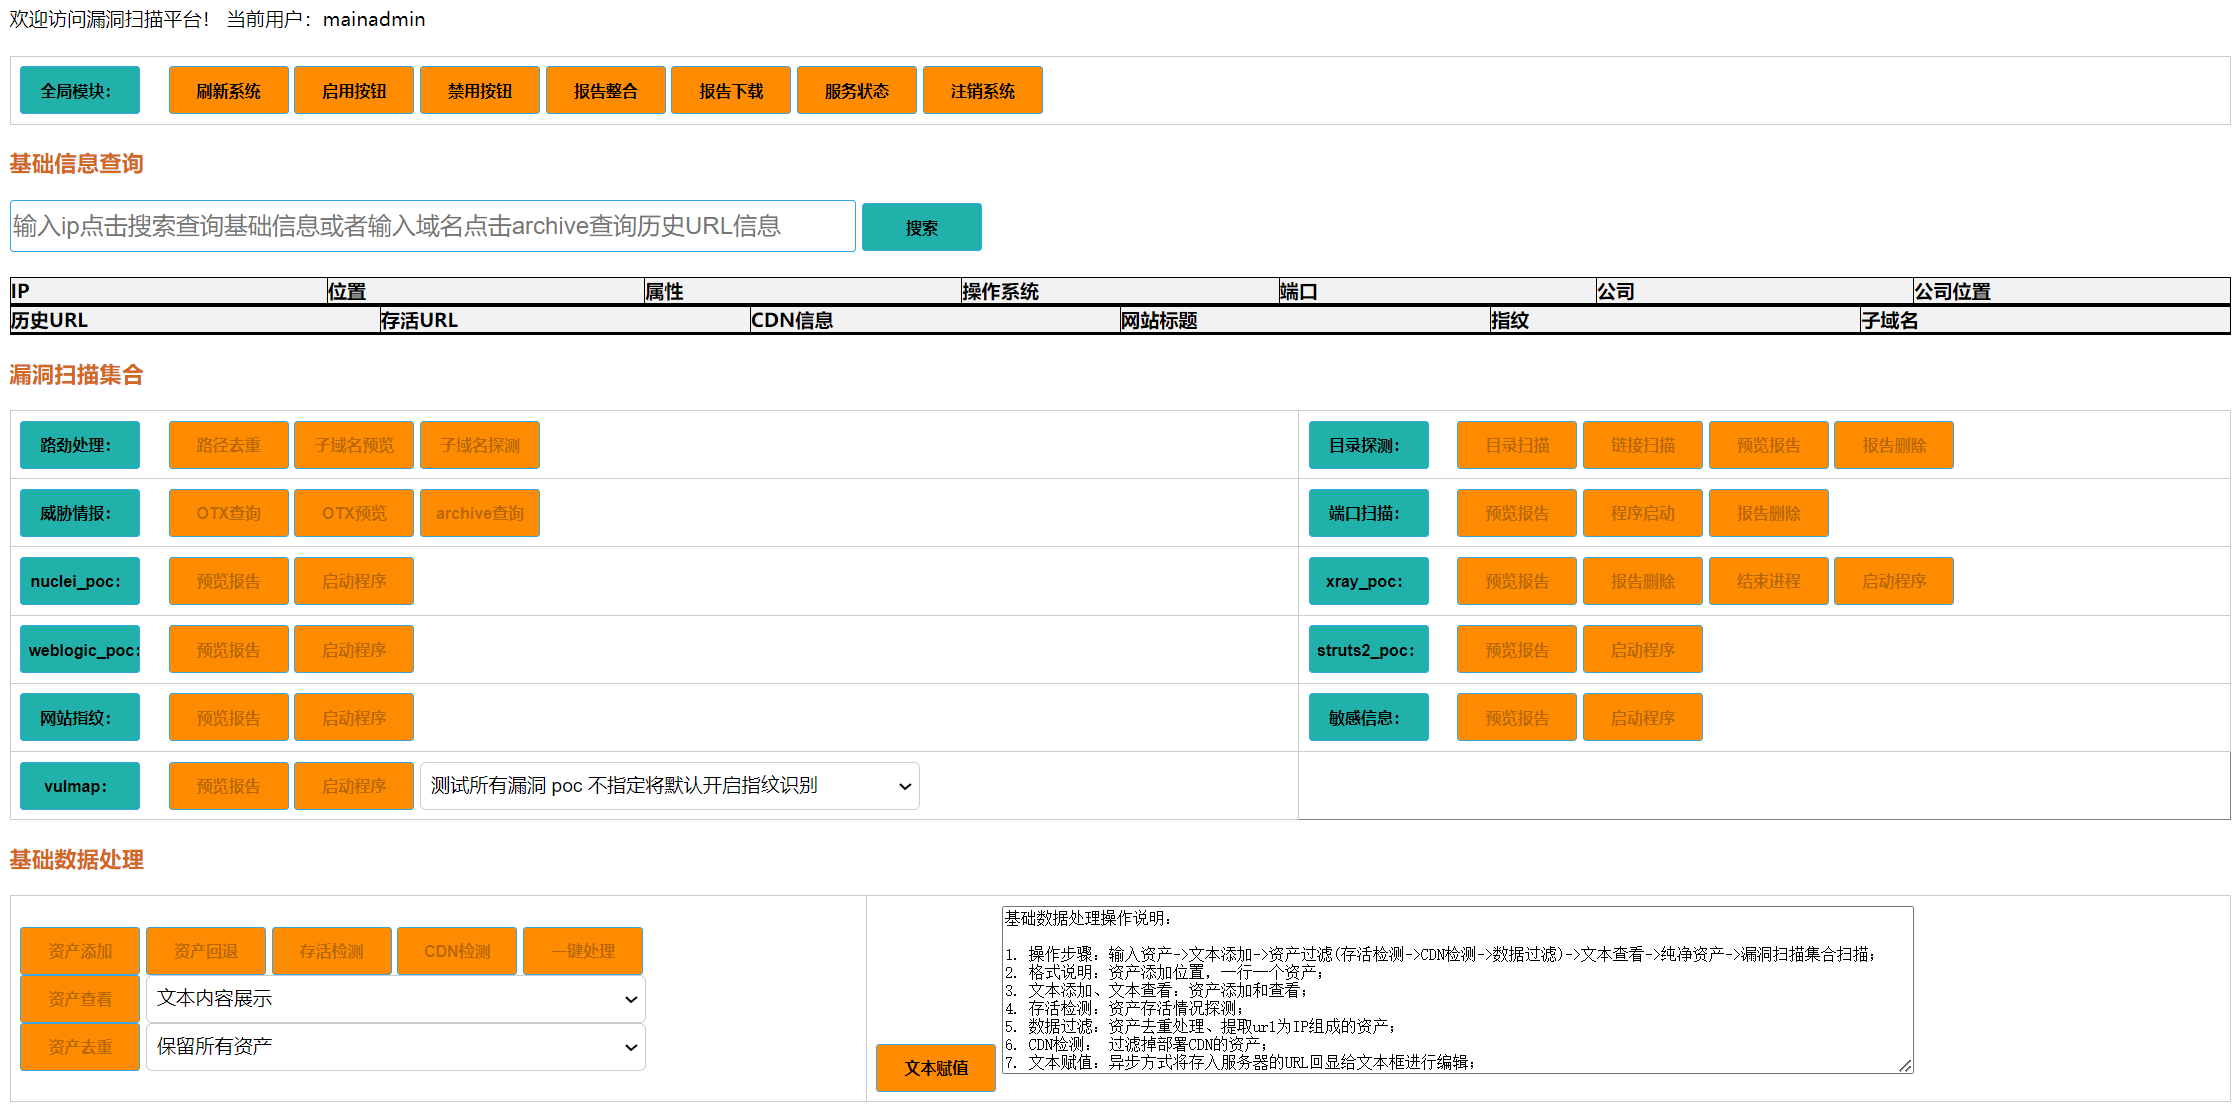
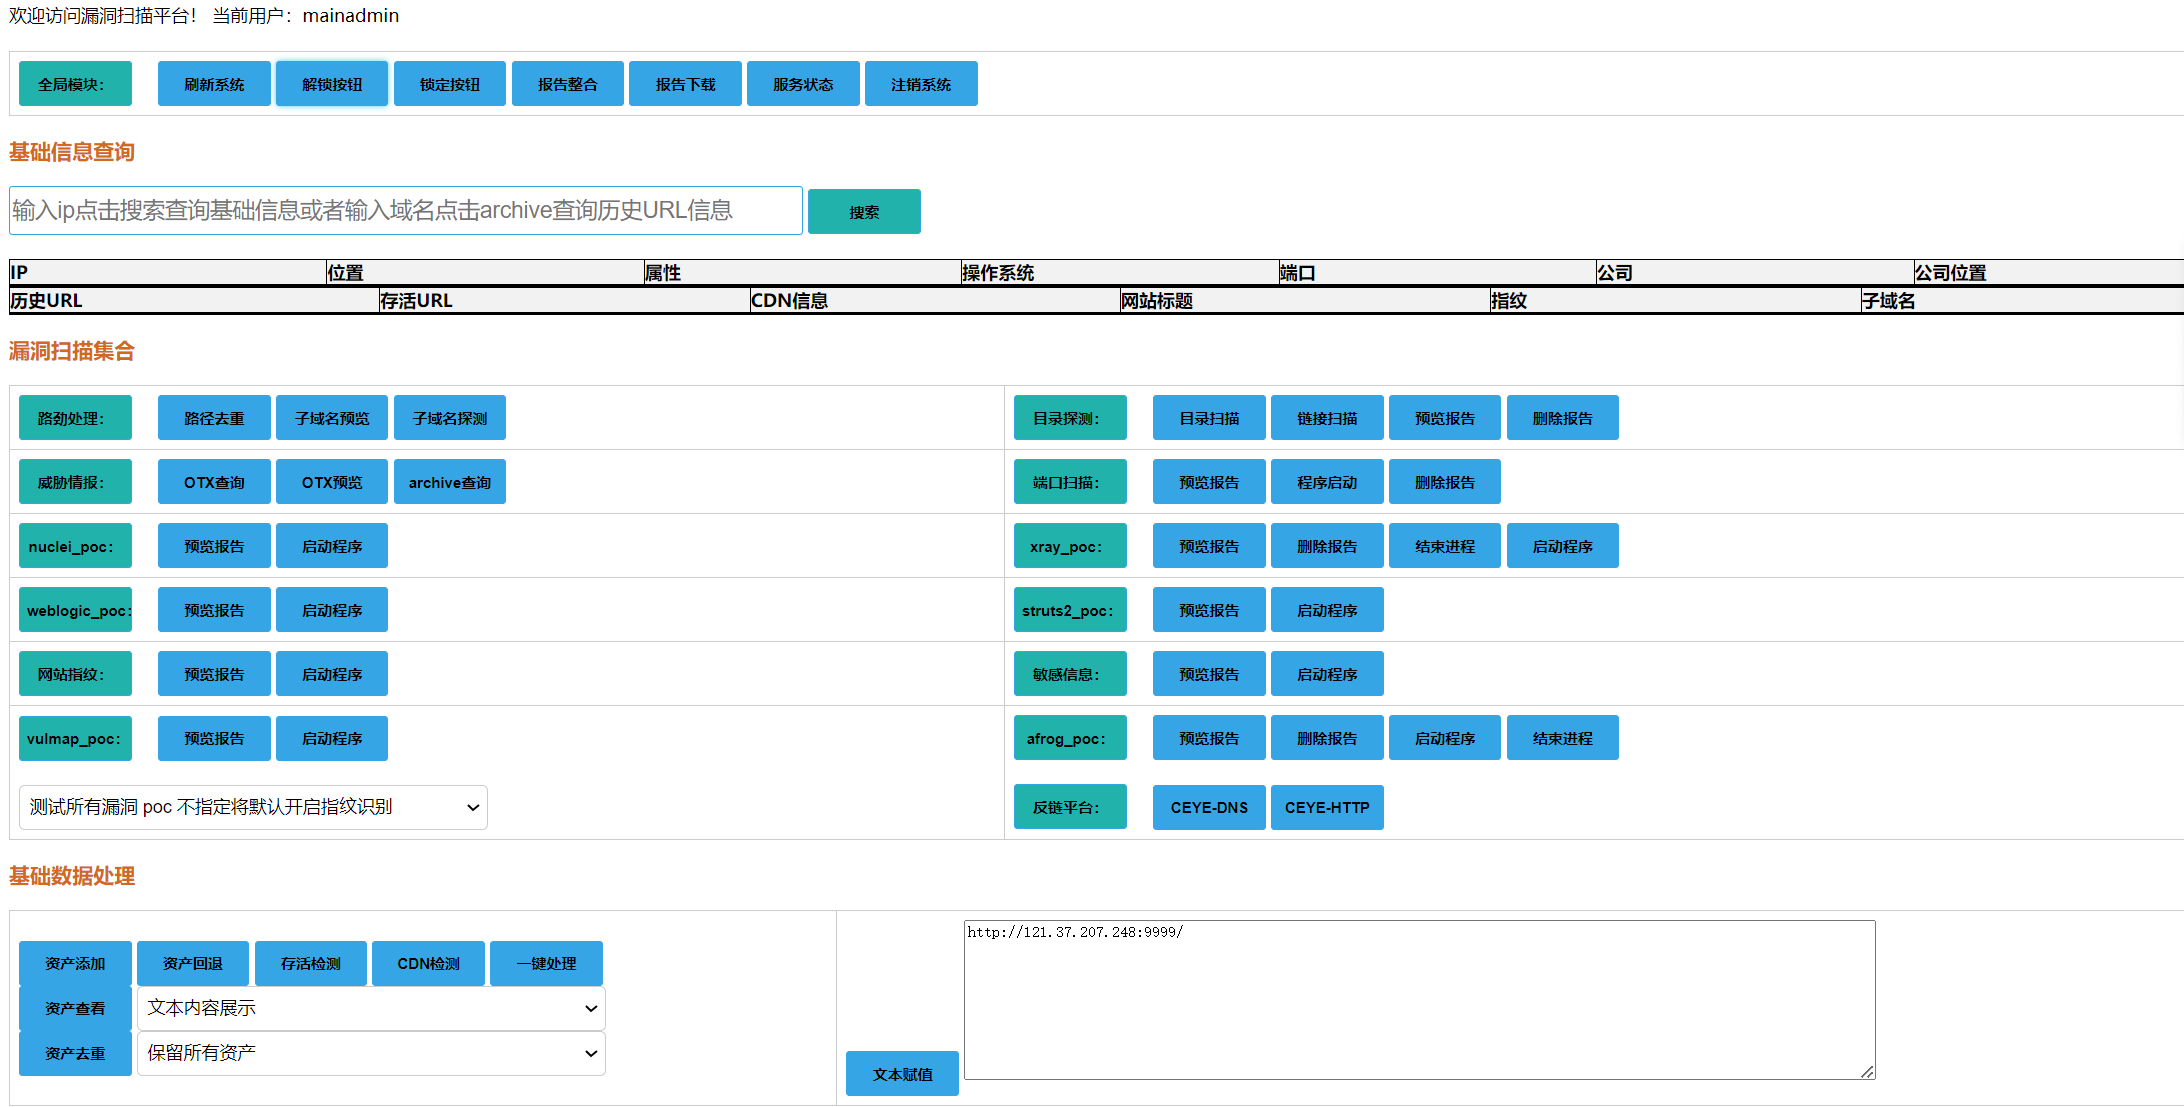
新增afrog扫描

diff --git a/templates/index.html b/templates/index.html
@@ -17,8 +17,8 @@
 			<td>
 				<input type="submit" value="全局模块：">&nbsp;&nbsp;&nbsp;&nbsp;
 				<input type="button" value="刷新系统" onclick="fanhui()">
-				<input type="button" value="启用按钮" onclick="startbutton()">
-				<input type="button" value="禁用按钮" onclick="stopbutton()">
+				<input type="button" value="解锁按钮" onclick="startbutton()">
+				<input type="button" value="锁定按钮" onclick="stopbutton()">
 				<input type="button" value="报告整合" onclick="reporttotalfunc()">
 				<input type="button" value="报告下载" onclick="reportdownloadfunc()">
 				<input type="button" value="服务状态" onclick="statusnmapfunc()" >
@@ -161,7 +161,7 @@
 				<input type="button" id="button18" value="目录扫描" onclick="jumpdirscanpage()" disabled>
 				<input type="button" id="button21" value="链接扫描" onclick="urlfinderscanfunc()" disabled>
 				<input type="button" id="button22" value="预览报告" onclick="urlfinderreportshow()" disabled>
-				<input type="button" id="button23" value="报告删除" onclick="deleteurlfinderreportfunc()" disabled>
+				<input type="button" id="button23" value="删除报告" onclick="deleteurlfinderreportfunc()" disabled>
 			</td>
 
 		</tr>
@@ -176,7 +176,7 @@
 				<input type="submit" value="端口扫描：">&nbsp;&nbsp;&nbsp;&nbsp;
 				<input type="button" id="button9" value="预览报告" onclick="nmapjumpfunc()" disabled>
 				<input type="button" id="button37" value="程序启动" onclick="batchnmapportscanfunc()" disabled>
-				<input type="button" id="button10" value="报告删除" onclick="deletenmapfunc()" disabled>
+				<input type="button" id="button10" value="删除报告" onclick="deletenmapfunc()" disabled>
 			</td>
 
 		</tr>
@@ -189,7 +189,7 @@
 			<td>
 				<input type="submit" value="xray_poc：">&nbsp;&nbsp;&nbsp;&nbsp;
 				<input type="button" id="button13" value="预览报告" onclick="xrayreportshow()" disabled>
-				<input type="button" id="button14" value="报告删除" onclick="xrayreportdelete()" disabled>
+				<input type="button" id="button14" value="删除报告" onclick="xrayreportdelete()" disabled>
 				<input type="button" id="button15" value="结束进程" onclick="killxrayandradfunc()" disabled>
 				<input type="button" id="button16" value="启动程序" onclick="startradandxray()" disabled>
 			</td>
@@ -222,8 +222,8 @@
 			<td>
 				<input type="submit"  value="vulmap_poc：">&nbsp;&nbsp;&nbsp;&nbsp;
 				<input type="button" id="button38" value="预览报告" onclick="vulmapscanreportfunc()" disabled>
-				<input type="button" id="button39" value="启动程序" onclick="startvulmapscanfunc()" disabled>
-				<select name="vulnname">s
+				<input type="button" id="button39" value="启动程序" onclick="startvulmapscanfunc()" disabled><br><br>
+				<select name="vulnname">
 					<option value="all">测试所有漏洞 poc 不指定将默认开启指纹识别</option>
 					<option value="activemq">检查站点是否存在activemq漏洞</option>
 					<option value="flink">检查站点是否存在flink漏洞</option>
@@ -258,9 +258,13 @@
 			</td>
 			<td>
 				<input type="submit"  value="afrog_poc：">&nbsp;&nbsp;&nbsp;&nbsp;
-				<input type="button"  value="预览报告" onclick="afrogreportfun()">
-				<input type="button"  value="CEYE-DNS" onclick="ceyednsfunc()">
-				<input type="button"  value="CEYE-HTTP" onclick="ceyehttpfunc()">
+				<input type="button" id="button40" value="预览报告" onclick="afrogreportfun()" disabled>
+				<input type="button" id="button41" value="删除报告" onclick="deleteafrogreportfunc()" disabled>
+				<input type="button" id="button42" value="启动程序" onclick="startafrogfunc()" disabled>
+				<input type="button" id="button43" value="结束进程" onclick="killafrogprocessfunc()" disabled><br><br>
+				<input type="submit"  value="反链平台：">&nbsp;&nbsp;&nbsp;&nbsp;
+				<input type="button" id="button44" value="CEYE-DNS" onclick="ceyednsfunc()" disabled>
+				<input type="button" id="button45" value="CEYE-HTTP" onclick="ceyehttpfunc()" disabled>
 			</td>
 		</tr>
 	</table>

diff --git a/static/js/common.js b/static/js/common.js
@@ -44,7 +44,7 @@ function deletenmapfunc() {
 }
 
 
-//ajax异步查询队列状态
+//ajax异步查询扫描器状态
 function statusnmapfunc() {
     $.ajax({
         url: '/nmapqueuestatus/',
@@ -61,7 +61,7 @@ function statusnmapfunc() {
     })
     $.getJSON("/nmapqueuestatus/",
         function (info) {
-            alert(info.nmapstatus + '\n' + info.nucleistatus + '\n' + info.xraystatus + '\n' + info.radstatus + '\n' + info.dirscanstatus+ '\n' + info.weblogicstatus+ '\n' +info.struts2status+ '\n' +info.bbscanstatus+ '\n' +info.vulmapscanstatus)
+            alert(info.nmapstatus + '\n' + info.nucleistatus + '\n' + info.xraystatus + '\n' + info.radstatus + '\n' + info.dirscanstatus+ '\n' + info.weblogicstatus+ '\n' +info.struts2status+ '\n' +info.bbscanstatus+ '\n' +info.vulmapscanstatus+ '\n' +info.afrogscanstatus)
         })
 }
 
@@ -356,6 +356,18 @@ function startbutton() {
     button38.disabled = false;
     var button39 = document.getElementById("button39");
     button39.disabled = false;
+    var button40 = document.getElementById("button40");
+    button40.disabled = false;
+    var button41 = document.getElementById("button41");
+    button41.disabled = false;
+    var button42 = document.getElementById("button42");
+    button42.disabled = false;
+    var button43 = document.getElementById("button43");
+    button43.disabled = false;
+    var button44 = document.getElementById("button44");
+    button44.disabled = false;
+    var button45 = document.getElementById("button45");
+    button45.disabled = false;
 
 }
 
@@ -433,6 +445,18 @@ function stopbutton() {
     button38.disabled = true;
     var button39 = document.getElementById("button39");
     button39.disabled = true;
+    var button40 = document.getElementById("button40");
+    button40.disabled = true;
+    var button41 = document.getElementById("button41");
+    button41.disabled = true;
+    var button42 = document.getElementById("button42");
+    button42.disabled = true;
+    var button43 = document.getElementById("button43");
+    button43.disabled = true;
+    var button44 = document.getElementById("button44");
+    button44.disabled = true;
+    var button45 = document.getElementById("button45");
+    button45.disabled = true;
 
 }
 
@@ -841,4 +865,61 @@ function ceyednsfunc() {
 //ceye http记录
 function ceyehttpfunc() {
     window.open("/ceye_http_record/", "_blank");
+}
+
+//ajax异步删除afrog报告
+function deleteafrogreportfunc() {
+    $.ajax({
+        url: '/deleteafrogreport/',
+        method: 'GET',
+        success: function (res) {
+            console.log(res)
+            console.log('已删除afrog报告')
+        },
+        error: function () {
+            alert('出现内部错误')
+        },
+        complete: function () {
+            alert('已删除afrog报告')
+        }
+    })
+}
+
+
+//启动afrog漏扫接口
+function startafrogfunc() {
+    
+    $.ajax({
+        url: '/startafrogscanprocess/',
+        method: 'GET',
+        success: function (res) {
+            console.log(res)
+            console.log('afrog漏扫程序已启动稍后查看扫描结果')
+        },
+        error: function () {
+            alert('内部出错')
+        },
+        complete: function () {
+            alert('afrog漏扫程序已启动稍后查看扫描结果')
+        }
+    })
+}
+
+
+//ajax异步结束afrog进程
+function killafrogprocessfunc() {
+    $.ajax({
+        url: '/killafrogprocess/',
+        method: 'GET',
+        success: function (res) {
+            console.log(res)
+            console.log('已结束afrog进程')
+        },
+        error: function () {
+            alert('出现内部错误')
+        },
+        complete: function () {
+            alert('已结束afrog进程')
+        }
+    })
 }

diff --git a/static/css/common.css b/static/css/common.css
@@ -17,7 +17,7 @@
 
 
 		input[type="submit"] {
-		    background-color:lightseagreen;
+		    background-color:rgb(32, 178, 171);
 		    border-radius: 3px;
 		    -webkit-transition: all linear 0.30s;
 		    -moz-transition: all linear 0.30s;
@@ -28,7 +28,7 @@
 		}
 
 		input[type="button"] {
-		    background-color:darkorange;
+		    background-color:#35a5e5;
 		    border-radius: 3px;
 		    -webkit-transition: all linear 0.30s;
 		    -moz-transition: all linear 0.30s;
@@ -51,7 +51,7 @@
 		}
 
 		input[type="button"]:hover {
-		    background-color: rgb(33, 207, 33);
+		    background-color: rgb(207, 100, 33);
 			cursor: pointer;
 		}
 

diff --git a/scan_main_web.py b/scan_main_web.py
@@ -326,6 +326,7 @@ def nmapqueuestatus():
         struts2status = os.popen('bash ./finger.sh struts2_status').read()
         bbscanstatus = os.popen('bash ./finger.sh bbscan_status').read()
         vulmapscanstatus = os.popen('bash ./finger.sh vulmapscan_status').read()
+        afrogscanstatus = os.popen('bash ./finger.sh afrogscan_status').read()
         message_json = {
             "nmapstatus":nmapstatus,
             "nucleistatus":nucleistatus,
@@ -335,7 +336,8 @@ def nmapqueuestatus():
             "weblogicstatus":weblogicstatus,
             "struts2status":struts2status,
             "bbscanstatus":bbscanstatus,
-            "vulmapscanstatus":vulmapscanstatus
+            "vulmapscanstatus":vulmapscanstatus,
+            "afrogscanstatus":afrogscanstatus
         }
         return jsonify(message_json)
     else:
@@ -818,6 +820,43 @@ def ceye_http_record():
         return result
     else:
         return render_template('login.html')
+    
+
+#清空afrog报告
+@app.route("/deleteafrogreport/")
+def deleteafrogreport():
+    user = session.get('username')
+    if str(user) == main_username:
+        os.popen('rm -rf /TIP/info_scan/afrog_scan/reports/*')
+        return render_template('index.html')
+    else:
+        return render_template('login.html')
+
+
+#启动afrog漏扫程序
+@app.route("/startafrogscanprocess/",methods=['get'])
+def startafrogscanprocess():
+    user = session.get('username')
+    if str(user) == main_username:
+        try:
+            os.popen('bash ./finger.sh startafrogprocess')
+            return render_template('index.html')
+        except Exception as e:
+            print("捕获到异常:", e)
+    else:
+        return render_template('login.html')
+
+
+#结束afrog进程
+@app.route("/killafrogprocess/")
+def killafrogprocess():
+    user = session.get('username')
+    if str(user) == main_username:
+        os.popen('bash ./finger.sh killafrog')
+        return render_template('index.html')
+    else:
+        return render_template('login.html')
+
 
 
 if __name__ == '__main__':  
